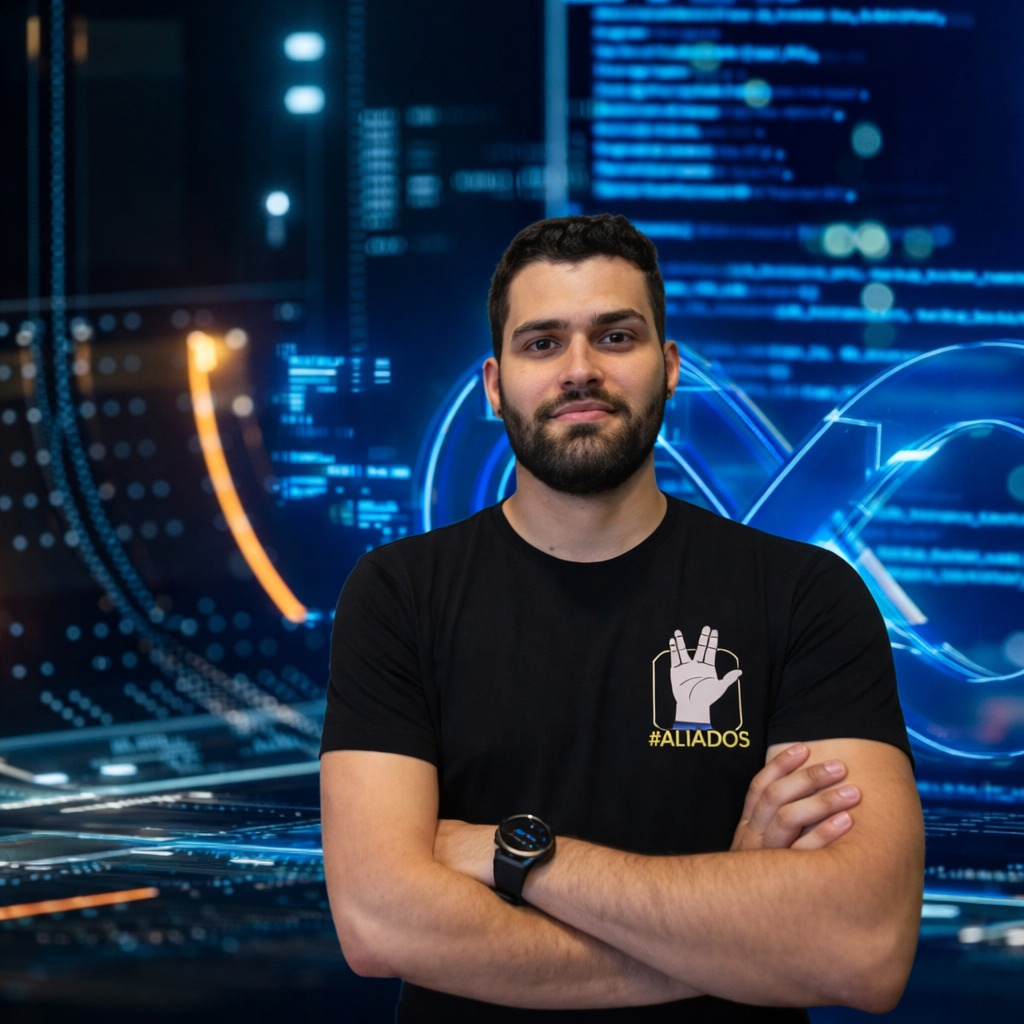
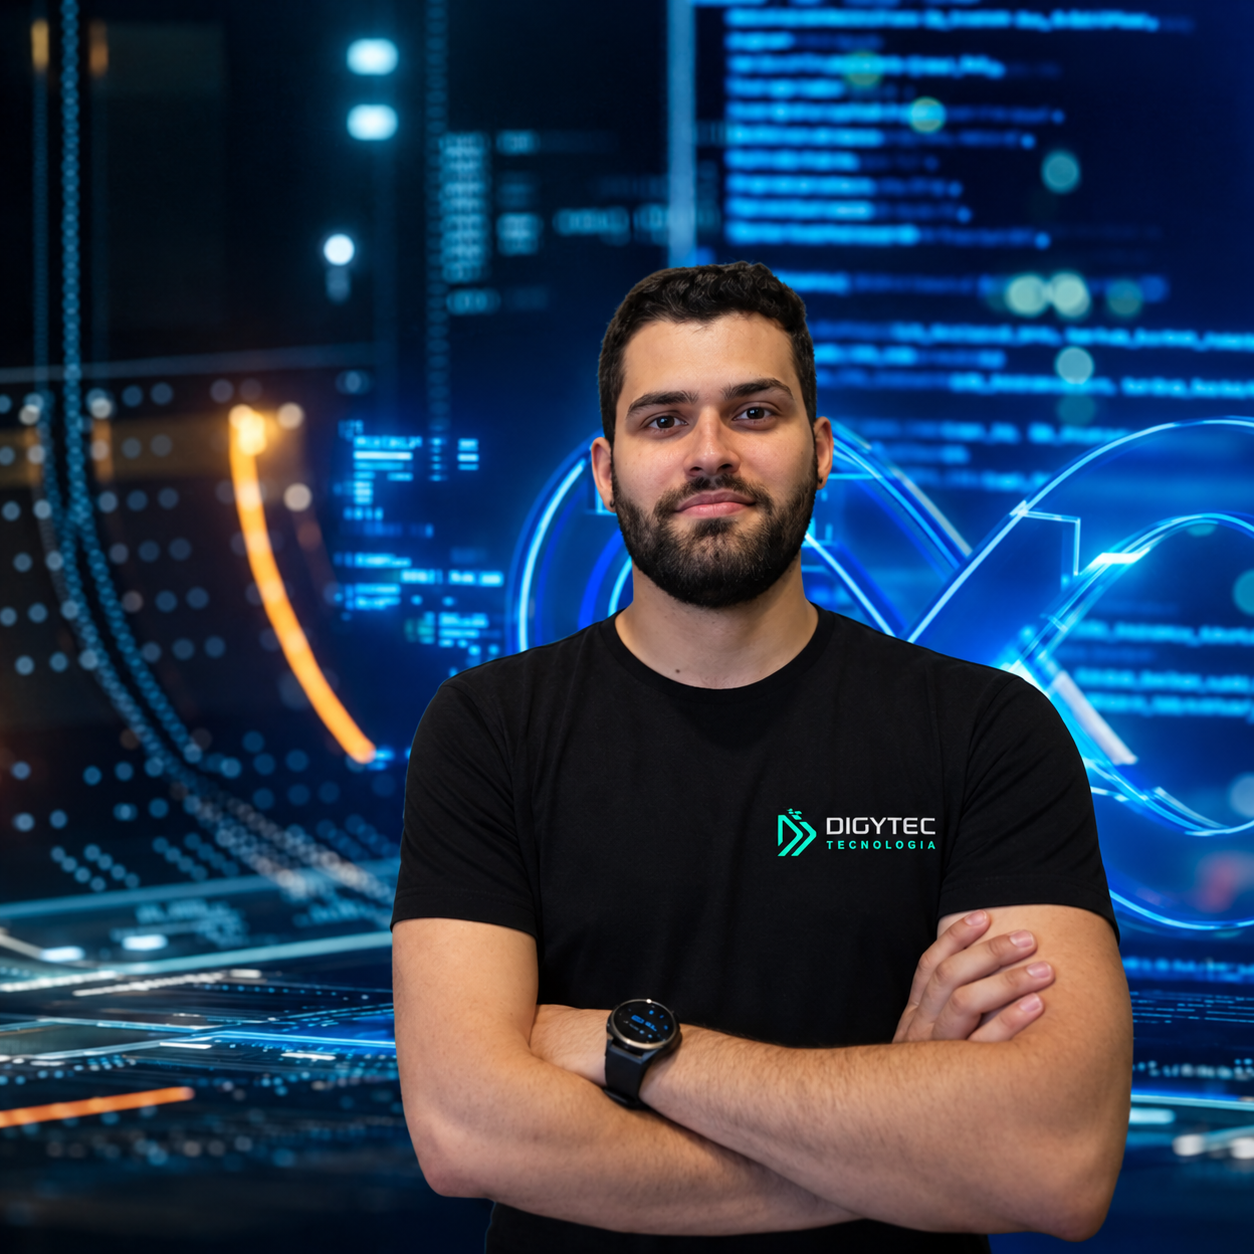
Aprimora ferramentas e especialidades

diff --git a/styles.css b/styles.css
@@ -1,3 +1,8 @@
+.tool-chip { align-items: center; display: inline-flex; gap: 7px; position: relative; }
+.tool-chip img { height: 18px; object-fit: contain; width: 18px; }
+.tool-chip .tool-tip { background: #071117; border: 1px solid var(--green); bottom: calc(100% + 12px); color: var(--white); font-size: .7rem; font-weight: 400; left: 50%; line-height: 1.35; opacity: 0; padding: 10px 12px; pointer-events: none; position: absolute; transform: translate(-50%, 5px); transition: opacity .2s, transform .2s; width: 190px; z-index: 3; }
+.tool-chip .tool-tip::after { border: 5px solid transparent; border-top-color: var(--green); content: ""; left: 50%; position: absolute; top: 100%; transform: translateX(-50%); }
+.tool-chip:hover .tool-tip, .tool-chip:focus-within .tool-tip { opacity: 1; transform: translate(-50%, 0); }
 :root {
   --paper: #0b1720;
   --ink: #e6f0ed;
@@ -61,6 +66,20 @@ h2 { font-size: clamp(2.2rem, 4.2vw, 4.3rem); letter-spacing: -.055em; max-width
 .intro-content .lead { color: var(--green); font: 500 1.45rem/1.45 "Space Grotesk", sans-serif; margin: 0 0 25px; }
 .intro-content p:not(.lead) { color: var(--muted); max-width: 580px; }
 .signature { color: var(--green); font: 700 1.25rem "Space Grotesk", sans-serif; margin-top: 38px; }
+.roles-section { border-top: 1px solid var(--line); }
+.roles-grid { display: grid; gap: 16px; grid-template-columns: repeat(3, 1fr); margin: 70px auto 0; max-width: 1100px; }
+.role-card { background: var(--panel); border: 1px solid var(--line); padding: 26px; }
+.role-visual { align-items: center; border-bottom: 1px solid var(--line); display: flex; justify-content: space-between; padding-bottom: 22px; }
+.role-visual img { background: var(--white); border-radius: 50%; height: 52px; object-fit: contain; padding: 8px; width: 52px; }
+.role-visual span { color: var(--orange); font: 700 .72rem "Space Grotesk", sans-serif; }
+.role-card h3 { color: var(--green); font-size: 1.6rem; margin-top: 28px; }
+.role-card > p { color: var(--muted); min-height: 105px; }
+.role-card ul { border-top: 1px solid var(--line); color: var(--ink); list-style: none; margin: 20px 0 0; padding: 18px 0 0; }
+.role-card li { font-size: .78rem; margin: 6px 0; }
+.role-card li::before { color: var(--orange); content: "+"; margin-right: 8px; }
+.role-tools { color: var(--muted); font-size: .7rem; margin-top: 22px; }
+.roles-note { border-top: 1px solid var(--line); color: var(--muted); font-size: .82rem; margin: 70px auto 0; max-width: 1100px; padding-top: 18px; }
+.roles-note strong { color: var(--green); }
 .focus-section { background: #102d35; color: var(--white); max-width: none; }
 .focus-section .section-label, .focus-section .section-heading p { color: #91c5b5; }
 .focus-section h2 { color: var(--white); }
@@ -75,8 +94,14 @@ h2 { font-size: clamp(2.2rem, 4.2vw, 4.3rem); letter-spacing: -.055em; max-width
 .focus-card .tag-row span { border-color: rgba(88,195,162,.35); color: #c8eee1; }
 .recommendation-link { color: var(--green); display: inline-flex; font-size: .75rem; font-weight: 700; gap: 14px; margin-top: 22px; }
 .recommendation-link:hover { color: var(--orange); }
-.tool-strip { border-top: 1px solid rgba(88,195,162,.28); color: #91c5b5; display: flex; flex-wrap: wrap; gap: 18px; margin: 82px auto 0; max-width: 1100px; padding-top: 20px; font-size: .8rem; }
-.tool-strip strong { color: var(--white); font-weight: 500; }
+.tool-strip { align-items: flex-start; border-top: 1px solid rgba(88,195,162,.28); color: #91c5b5; display: flex; flex-wrap: wrap; gap: 16px 24px; margin: 82px auto 0; max-width: 1100px; padding-top: 20px; font-size: .8rem; }
+.tool-strip-label { flex: 0 0 auto; padding-top: 8px; }
+.supporting-tools { display: flex; flex: 1 1 600px; flex-wrap: wrap; gap: 8px; }
+.supporting-tool { align-items: center; border: 1px solid rgba(88,195,162,.28); color: var(--white); display: inline-flex; font-size: .7rem; gap: 7px; padding: 6px 9px; position: relative; }
+.supporting-tool img, .supporting-tool-fallback { align-items: center; display: inline-flex; height: 18px; justify-content: center; object-fit: contain; width: 18px; }
+.supporting-tool-fallback { background: rgba(242,184,75,.2); color: var(--orange); font-size: .55rem; font-weight: 700; }
+.supporting-tool .tool-tip { background: #071117; border: 1px solid var(--green); bottom: calc(100% + 10px); color: var(--white); font-size: .7rem; font-weight: 400; left: 50%; line-height: 1.35; opacity: 0; padding: 9px 11px; pointer-events: none; position: absolute; transform: translate(-50%, 5px); transition: opacity .2s, transform .2s; width: 190px; z-index: 4; }
+.supporting-tool:hover .tool-tip, .supporting-tool:focus-within .tool-tip { opacity: 1; transform: translate(-50%, 0); }
 .timeline { margin: 76px 0 0 250px; max-width: 850px; }
 .timeline-item { border-top: 1px solid var(--line); display: grid; gap: 35px; grid-template-columns: 125px 1fr; padding: 35px 0 45px; }
 .timeline-item.current { border-top: 2px solid var(--orange); }
@@ -116,6 +141,6 @@ h2 { font-size: clamp(2.2rem, 4.2vw, 4.3rem); letter-spacing: -.055em; max-width
 .reveal-delay { animation-delay: .15s; }
 .reveal-delay-2 { animation-delay: .3s; }
 @keyframes rise { from { opacity: 0; transform: translateY(18px); } to { opacity: 1; transform: translateY(0); } }
-@media (max-width: 800px) { .main-nav { display: none; } .hero { grid-template-columns: 1fr; padding-top: 45px; } .hero-portrait { justify-self: center; margin: 60px auto; max-width: 310px; } .portrait-frame img { height: 370px; } .hero-meta { bottom: 15px; gap: 18px; left: 5vw; right: auto; } .hero-meta span { font-size: 1.3rem; } .section-grid { gap: 30px; grid-template-columns: 1fr; } section { padding-bottom: 75px; padding-top: 75px; } .focus-grid, .recommendations-grid, .education-list { grid-template-columns: 1fr; } .focus-card { padding-bottom: 25px; } .focus-card p { min-height: 0; } .timeline { margin-left: 0; } .timeline-item { gap: 12px; grid-template-columns: 1fr; } .education-list { gap: 32px; } .education-list > div { border-left: 0; border-top: 1px solid var(--line); padding: 22px 0 0; } }
+@media (max-width: 800px) { .main-nav { display: none; } .hero { grid-template-columns: 1fr; padding-top: 45px; } .hero-portrait { justify-self: center; margin: 60px auto; max-width: 310px; } .portrait-frame img { height: 370px; } .hero-meta { bottom: 15px; gap: 18px; left: 5vw; right: auto; } .hero-meta span { font-size: 1.3rem; } .section-grid { gap: 30px; grid-template-columns: 1fr; } section { padding-bottom: 75px; padding-top: 75px; } .focus-grid, .roles-grid, .recommendations-grid, .education-list { grid-template-columns: 1fr; } .focus-card, .role-card { padding-bottom: 25px; } .focus-card p, .role-card > p { min-height: 0; } .timeline { margin-left: 0; } .timeline-item { gap: 12px; grid-template-columns: 1fr; } .education-list { gap: 32px; } .education-list > div { border-left: 0; border-top: 1px solid var(--line); padding: 22px 0 0; } }
 @media (max-width: 480px) { .site-header { padding-top: 20px; } .language-button { padding-left: 5px; padding-right: 5px; } h1 { font-size: 3.6rem; } .hero { min-height: 650px; } .hero-meta { gap: 12px; } .hero-meta span { font-size: 1.05rem; } .hero-meta small { font-size: .54rem; } .portrait-note { left: -12px; } .contact-links { gap: 25px; } .site-footer { align-items: flex-start; flex-direction: column; gap: 10px; } }
 @media (prefers-reduced-motion: reduce) { html { scroll-behavior: auto; } *, *::before, *::after { animation-duration: .01ms !important; transition-duration: .01ms !important; } }

diff --git a/script.js b/script.js
@@ -9,11 +9,59 @@ const updateLanguage = (language) => {
   document.documentElement.lang = language === "pt" ? "pt-BR" : language;
   document.querySelectorAll("[data-i18n]").forEach((element) => { if (content[element.dataset.i18n]) element.innerHTML = content[element.dataset.i18n]; });
   document.querySelectorAll(".language-button").forEach((button) => button.classList.toggle("is-active", button.dataset.lang === language));
+  const resumes = { pt: "Curriculo_Ansley_Donizeti_Gonçalves.pdf", en: "eng-Curriulo-Ansley.pdf", es: "es-Curriculum-Ansley.pdf" };
+  const profileLink = document.querySelector(".button-quiet");
+  if (profileLink) {
+    profileLink.href = `assets/documents/${resumes[language]}`;
+    profileLink.target = "_blank";
+  }
   localStorage.setItem("portfolio-language", language);
 };
 document.querySelectorAll(".language-button").forEach((button) => button.addEventListener("click", () => updateLanguage(button.dataset.lang)));
 updateLanguage(localStorage.getItem("portfolio-language") || "pt");
 document.querySelectorAll('a[href*="O2B"]').forEach((link) => { link.setAttribute("href", "assets/documents/Carta de Recomendaco O2B - Ansley.pdf"); });
+document.querySelectorAll('a[href*="linkedin.com"]').forEach((link) => { link.href = "https://www.linkedin.com/in/ansley-donizeti-goncalves/"; });
+
+const toolsByCard = [
+  [
+    ["Grafana", "grafana-icon.png", "Dashboards para visualizar métricas e a saúde dos sistemas."],
+    ["Prometheus", "prometheus-icon.png", "Coleta métricas e dispara alertas sobre serviços e infraestrutura."],
+    ["Zabbix", "grafana-icon.png", "Monitora servidores, redes e aplicações com alertas operacionais."],
+    ["Loki", "grafana-icon.png", "Centraliza logs de aplicações e infraestrutura para investigação de incidentes."]
+  ],
+  [
+    ["AWS", "aws-icon.png", "Serviços de computação, rede e armazenamento em cloud."],
+    ["Azure", "azure-icon.png", "Plataforma cloud Microsoft para operar ambientes escaláveis."],
+    ["GCP", "gcp-icon.png", "Serviços de infraestrutura e dados da Google Cloud."],
+    ["Linux", "linux-icon.png", "Sistema operacional base para servidores, automação e containers."],
+    ["PostgreSQL", "postgres-icon.png", "Banco de dados relacional para aplicações e operações críticas."]
+  ],
+  [
+    ["Docker", "docker-icon.png", "Empacota aplicações em containers reproduzíveis."],
+    ["Kubernetes", "kubernetes-icon.png", "Orquestra containers, escala workloads e mantém serviços disponíveis."],
+    ["Jenkins", "jenkins-icon.png", "Automatiza pipelines de integração e entrega contínua."],
+    ["Terraform", "terraform-icon.png", "Provisiona infraestrutura usando código declarativo."],
+    ["Git", "git-icon.png", "Versionamento de código e colaboração entre times."],
+    ["GitHub", "git-icon.png", "Hospedagem de código, pull requests e colaboração de software."],
+    ["ArgoCD", "argo-icon.png", "Entrega contínua baseada em GitOps para Kubernetes."],
+    ["Shell Script", "linux-icon.png", "Automação de tarefas e rotinas operacionais em Linux."],
+    ["Ansible", "ansible-icon.png", "Automação de configuração e provisionamento de servidores."]
+  ]
+];
+
+document.querySelectorAll(".focus-card .tag-row").forEach((row, cardIndex) => {
+  row.innerHTML = toolsByCard[cardIndex].map(([name, icon, description]) => `<span class="tool-chip" title="${description}"><img src="assets/images/${icon}" alt="${name}"><span>${name}</span><span class="tool-tip">${description}</span></span>`).join("");
+});
+
+const toolStrip = document.querySelector(".tool-strip");
+if (toolStrip) {
+  toolStrip.remove();
+}
+
+const aboutSection = document.querySelector("#sobre");
+if (aboutSection) {
+  aboutSection.insertAdjacentHTML("afterend", `<section class="roles-section" id="atuacao"><div class="section-heading section-grid"><div class="section-label"><span>03</span><span>Como atuo</span></div><div><h2>SRE, DevOps e Cloud na prática.</h2><p>Três perspectivas que se complementam para construir, entregar e manter plataformas confiáveis.</p></div></div><div class="roles-grid"><article class="role-card"><div class="role-visual"><img src="assets/images/SRE.jpg" alt="SRE"><span>01</span></div><h3>SRE</h3><p>Confiabilidade como disciplina: sistemas observáveis, resilientes e preparados para operar em produção.</p><ul><li>SLIs, SLOs e alertas</li><li>Observabilidade e incidentes</li><li>Redução de trabalho repetitivo</li></ul><div class="role-tools">Grafana · Prometheus · Loki · Zabbix</div></article><article class="role-card"><div class="role-visual"><img src="assets/images/DevOps.jpg" alt="DevOps"><span>02</span></div><h3>DevOps Engineer</h3><p>O elo entre desenvolvimento e operações, criando um fluxo seguro e automatizado para entregar valor.</p><ul><li>CI/CD e automação</li><li>Containers e GitOps</li><li>Infrastructure as Code</li></ul><div class="role-tools">Jenkins · Docker · Kubernetes · Terraform</div></article><article class="role-card"><div class="role-visual"><img src="assets/images/Cloud-Enginieer.png" alt="Cloud Engineer"><span>03</span></div><h3>Cloud Engineer</h3><p>Infraestrutura cloud escalável e segura, com visão de custo, performance, disponibilidade e crescimento.</p><ul><li>AWS, Azure e GCP</li><li>Ambientes híbridos</li><li>Segurança e continuidade</li></ul><div class="role-tools">AWS · Azure · GCP · Linux</div></article></div><div class="roles-note"><strong>Na prática:</strong> essas funções trabalham juntas para transformar infraestrutura em uma plataforma confiável para o negócio.</div></section>`);
+}
 
 const recommendationFiles = {
   "Security First": "Carta de Recomendação SecurituFirst - Ansley.pdf",
